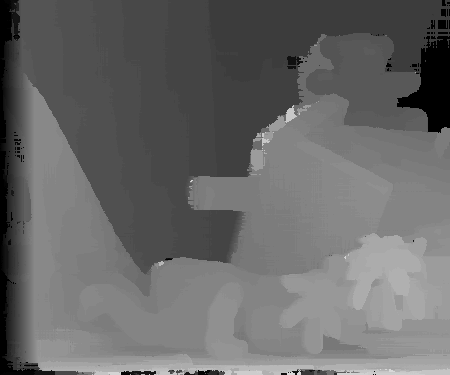
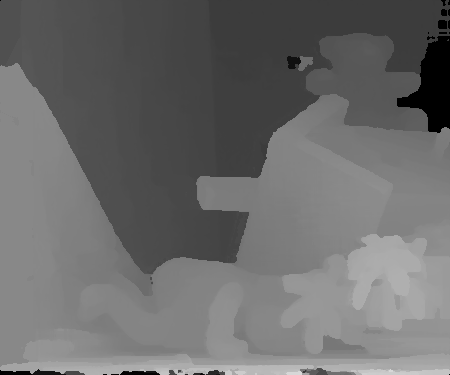
HW4 fix bug, new result added (v2))

diff --git a/hw4/main2.py b/hw4/main2.py
@@ -2,18 +2,10 @@ import numpy as np
 import cv2
 import time
 import math
+import os
 from scipy.ndimage.filters import median_filter, sobel
 DEBUG = 1
-SAVE_DIR = "./results"
-
-"""
-    * TO BE UPDATED.....
-    run time and bad pixel ratio results (initialization / aggregation / optimization / refinement / bad pixel ratio)
-    Tsukuba: 50.49/1160.8/59.18/-/4.77
-    Venus: 83.50/2198.3/124.57/-/4.43
-    Teddy: 141.51/3024.0/-/-/17.76
-    Cones: 144.93/1268.0/-/-/14.26
-"""
+SAVE_DIR = "./result_local"
 
 
 def computeDisp(Il, Ir, max_disp):
@@ -22,7 +14,6 @@ def computeDisp(Il, Ir, max_disp):
     Ir = Ir.astype(np.float64)
 
     if DEBUG:
-        import os
         if not os.path.exists(SAVE_DIR):
             os.mkdir(SAVE_DIR)
 
@@ -102,7 +93,7 @@ def computeDisp(Il, Ir, max_disp):
                     after_cost[disp, y, x] = p_cost / pixel_cnt
         return after_cost
 
-    def cost_matching(img_l, img_r):
+    def cost_matching(img_l, img_r, reverse=False):
         # >>> Cost computation
         print("* Cost computation (initialization)")
         tic = time.time()
@@ -141,6 +132,8 @@ def computeDisp(Il, Ir, max_disp):
         for disp in range(max_disp):
             cost_census[disp, :, disp:] = np.sum(left_census[:, disp:] != right_census[:, :w - disp], 2)
 
+        cost_census /= 3
+
         lambda_census = 30
         lambda_ad = 10
 
@@ -150,7 +143,9 @@ def computeDisp(Il, Ir, max_disp):
 
         if DEBUG:
             label = cost_total.argmin(0).astype(np.float64)
-            cv2.imwrite(os.path.join(SAVE_DIR, '{}_adcost.png'.format(name)), np.uint8(label * scale_factor))
+            filename = os.path.join(SAVE_DIR, '{}_adcost_census-rgb.png'.format(name)) if not reverse \
+                       else os.path.join(SAVE_DIR, '{}_adcost_r.png'.format(name))
+            cv2.imwrite(filename, np.uint8(label * scale_factor))
 
         toc = time.time()
         print('* Elapsed time (cost computation): %f sec.' % (toc - tic))
@@ -169,20 +164,26 @@ def computeDisp(Il, Ir, max_disp):
             cost_total = cross_based_cost_aggrgation(window_l, window_r, cost_total, False)
             if DEBUG:
                 label = cost_total.argmin(0).astype(np.float64)
-                cv2.imwrite(os.path.join(SAVE_DIR, '{}_adcost_hori_{}.png'.format(name, idx)), np.uint8(label * scale_factor))
+                filename = os.path.join(SAVE_DIR, '{}_adcost_hori_{}.png'.format(name, idx)) if not reverse \
+                    else os.path.join(SAVE_DIR, '{}_adcost_hori_{}_r.png'.format(name, idx))
+                cv2.imwrite(filename, np.uint8(label * scale_factor))
 
             print('* Cost aggregation (vertical {})'.format(idx))
             cost_total = cross_based_cost_aggrgation(window_l, window_r, cost_total, True)
             if DEBUG:
                 label = cost_total.argmin(0).astype(np.float64)
-                cv2.imwrite(os.path.join(SAVE_DIR, '{}_adcost_verti_{}.png'.format(name, idx)), np.uint8(label * scale_factor))
+                filename = os.path.join(SAVE_DIR, '{}_adcost_verti_{}.png'.format(name, idx)) if not reverse \
+                    else os.path.join(SAVE_DIR, '{}_adcost_verti_{}_r.png'.format(name, idx))
+                cv2.imwrite(filename, np.uint8(label * scale_factor))
 
         toc = time.time()
         print('* Elapsed time (cost aggregation): %f sec.' % (toc - tic))
 
         if DEBUG:
             label = cost_total.argmin(0).astype(np.float64)
-            cv2.imwrite(os.path.join(SAVE_DIR, '{}_adcost_agg.png'.format(name)), np.uint8(label * scale_factor))
+            filename = os.path.join(SAVE_DIR, '{}_adcost_agg.png'.format(name)) if not reverse \
+                else os.path.join(SAVE_DIR, '{}_adcost_agg_r.png'.format(name))
+            cv2.imwrite(filename, np.uint8(label * scale_factor))
 
         # >>> Disparity optimization
         tic = time.time()
@@ -337,7 +338,9 @@ def computeDisp(Il, Ir, max_disp):
 
         if DEBUG:
             label = cost_total.argmin(0).astype(np.float64)
-            cv2.imwrite(os.path.join(SAVE_DIR, '{}_adcost_optim.png'.format(name)), np.uint8(label * scale_factor))
+            filename = os.path.join(SAVE_DIR, '{}_adcost_optim.png'.format(name)) if not reverse \
+                else os.path.join(SAVE_DIR, '{}_adcost_optim_r.png'.format(name))
+            cv2.imwrite(filename, np.uint8(label * scale_factor))
 
         toc = time.time()
         print('* Elapsed time (disparity optimization): %f sec.' % (toc - tic))
@@ -345,7 +348,8 @@ def computeDisp(Il, Ir, max_disp):
         return cost_total, window_l
 
     cost_total, window_l = cost_matching(Il, Ir)
-    cost_total_r, _ = cost_matching(Ir[:, ::-1], Il[:, ::-1])[:, :, ::-1]
+    cost_total_r, _ = cost_matching(Ir[:, ::-1], Il[:, ::-1], True)
+    cost_total_r = cost_total_r[:, :, ::-1]
 
     def outlier_detection(label, label_r):
         outlier = np.empty_like(label)
@@ -364,8 +368,8 @@ def computeDisp(Il, Ir, max_disp):
                             outlier[y, x] = 2
         return outlier
 
-
     tao_s, tao_h = 20, 0.4
+
     def iterative_region_voting(window, label, outlier):
         histogram = np.empty(max_disp, dtype=int)
         result = np.empty_like(label)
@@ -427,11 +431,11 @@ def computeDisp(Il, Ir, max_disp):
                     for direction in range(16):
                         dir_y, dir_x = all_dir[direction, 0], all_dir[direction, 1]
                         verti, hori = y, x
-                        verti_iter, hori_iter = round(verti), round(hori)
+                        verti_iter, hori_iter = int(round(verti)), int(round(hori))
                         while 0 <= verti_iter < h and 0 <= hori_iter < w and outlier[verti_iter, hori_iter] != 0:
                             verti += dir_y
                             hori += dir_x
-                            verti_iter, hori_iter = round(verti), round(hori)
+                            verti_iter, hori_iter = int(round(verti)), int(round(hori))
                         if 0 <= verti_iter < h and 0 <= hori_iter < w:
                             assert(outlier[verti_iter, hori_iter] == 0)
                             if outlier[y, x] == 1:
@@ -484,7 +488,7 @@ def computeDisp(Il, Ir, max_disp):
             for x in range(w):
                 disp = label[y, x]
                 result[y, x] = disp
-                if 1 <= disp < max_disp -1:
+                if 1 <= disp < max_disp - 1:
                     cn = cost[disp - 1, y, x]
                     cz = cost[disp, y, x]
                     cp = cost[disp + 1, y, x]
@@ -520,7 +524,7 @@ def computeDisp(Il, Ir, max_disp):
         output[outlier != 0] = 0
         output[outlier == 1, 0] = 255
         output[outlier == 2, 1] = 255
-        cv2.imwrite(os.path.join(SAVE_DIR, '{}_outlier.png'.format(name)), np.uint8(output))
+        cv2.imwrite(os.path.join(SAVE_DIR, '{}_outlier_after_voting.png'.format(name)), np.uint8(output))
 
     print('* Proper interpolation')
     labels = proper_interpolation(Il, labels, outlier)
@@ -530,7 +534,7 @@ def computeDisp(Il, Ir, max_disp):
     print('* Depth discontinuity adjustment')
     labels = depth_discontinuity_adjustment(labels, cost_total)
     if DEBUG:
-        cv2.imwrite(os.path.join(SAVE_DIR, '{}_depth_discontinuity_adjustment.png'.format(name)), np.uint8(labels * scale_factor))
+        cv2.imwrite(os.path.join(SAVE_DIR, '{}_depth_discont_adjust.png'.format(name)), np.uint8(labels * scale_factor))
 
     print('* Subpixel enhancement')
     labels = subpixel_enhancement(labels, cost_total)
